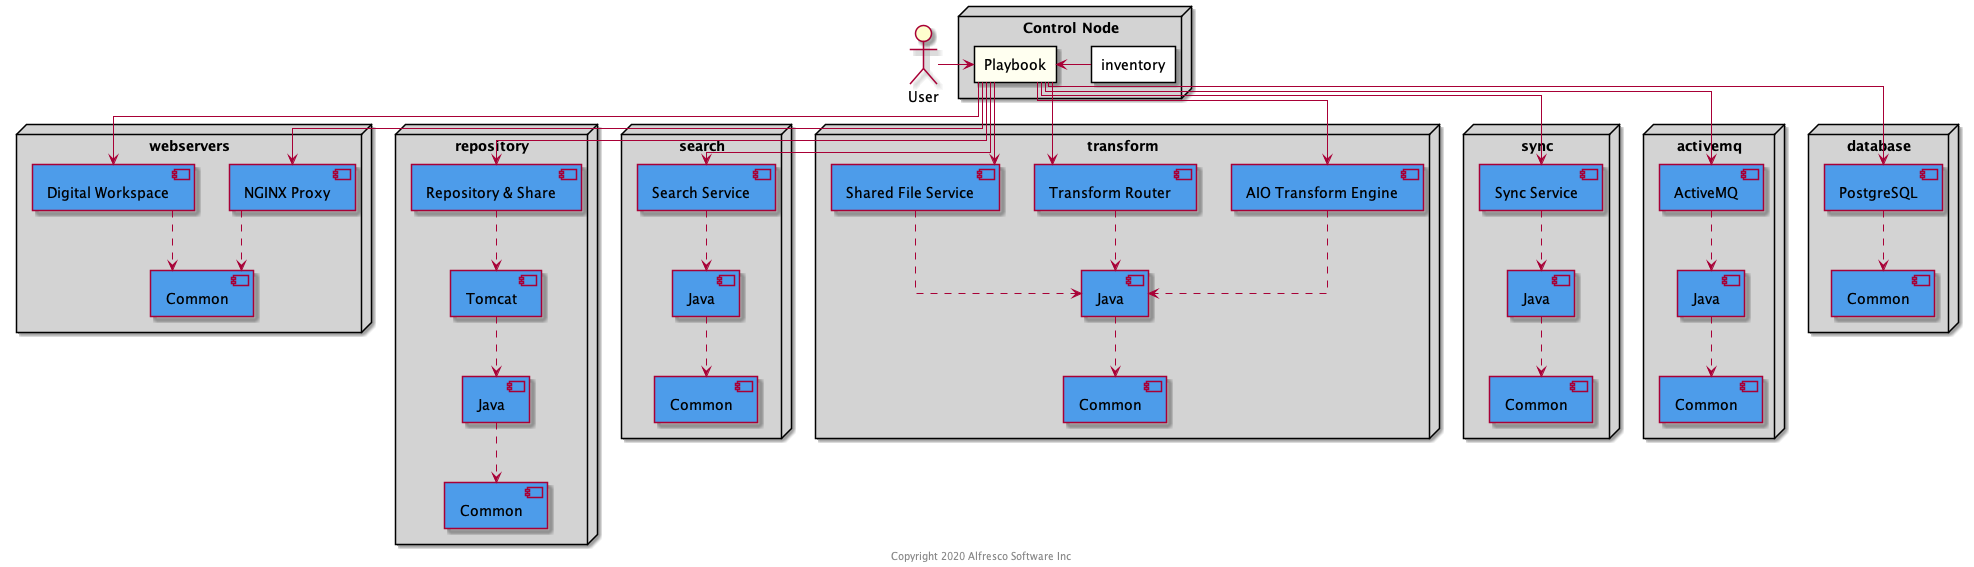
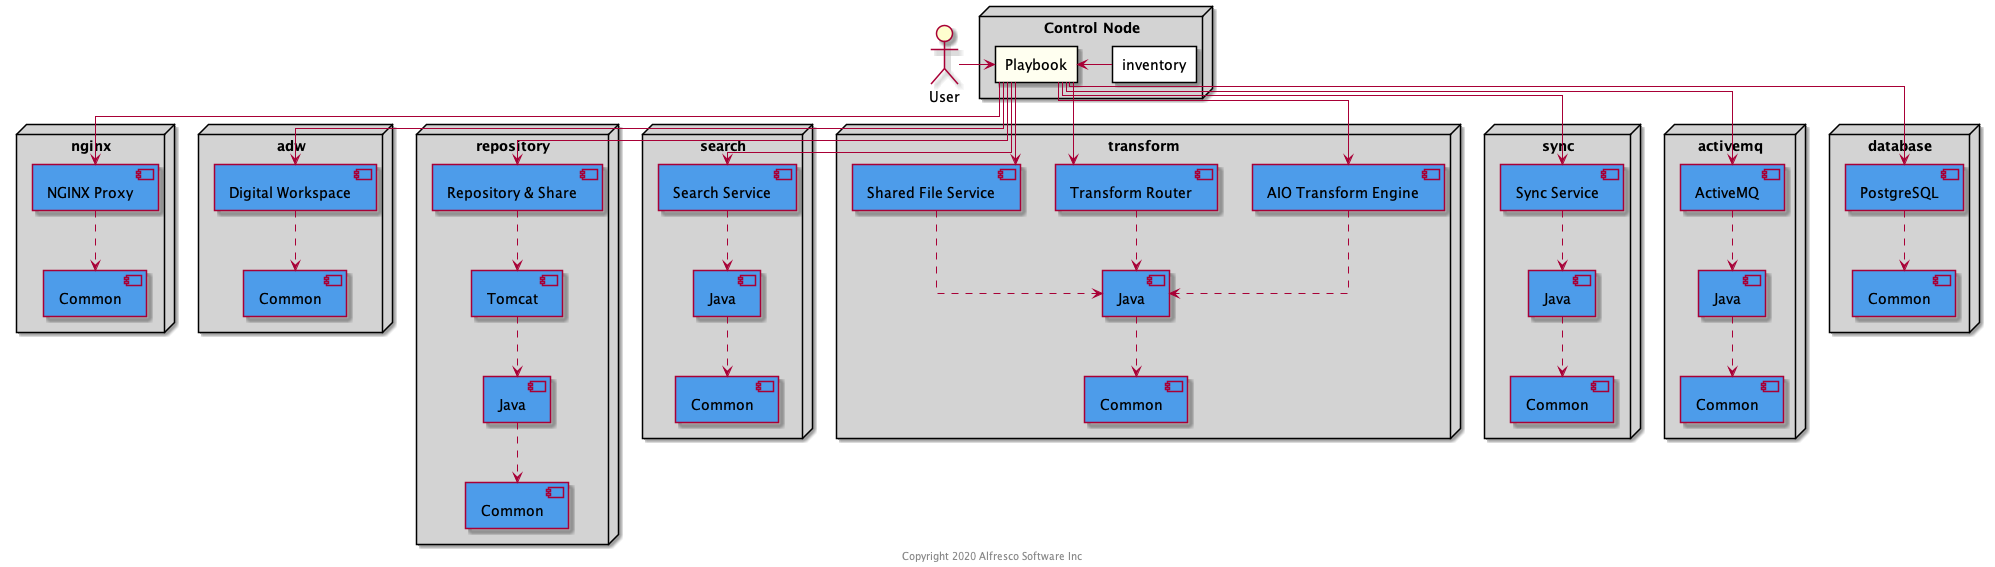
Rename "webservers" group to "nginx"

diff --git a/molecule/ec2multi/dynamic_inventory.py b/molecule/ec2multi/dynamic_inventory.py
@@ -27,7 +27,7 @@ for item in parsed_yaml_file:
         'connection': 'ssh'
     })
 
-    if groupname=='webservers':
+    if groupname=='nginx':
         add_if_key_not_exist(inventoryfile['all']['children'], 'adw', {})
         add_if_key_not_exist(inventoryfile['all']['children']['adw'], 'hosts', {})
         add_if_key_not_exist(inventoryfile['all']['children']['adw']['hosts'], 'adw_1', {

diff --git a/docs/deployment-guide.md b/docs/deployment-guide.md
@@ -253,10 +253,10 @@ transformers_1             : ok=81   changed=10   unreachable=0    failed=0    s
 
 Once ACS has initialized access the system using the following URLs with a browser:
 
-* Digital Workspace: `http://<webservers-host-ip>/workspace`
-* Share: `http://<webservers-host-ip>/share`
-* Repository: `http://<webservers-host-ip>/alfresco`
-* API Explorer: `http://<webservers-host-ip>/api-explorer`
+* Digital Workspace: `http://<nginx-host-ip>/workspace`
+* Share: `http://<nginx-host-ip>/share`
+* Repository: `http://<nginx-host-ip>/alfresco`
+* API Explorer: `http://<nginx-host-ip>/api-explorer`
 
 ## Customizing the deployment
 
